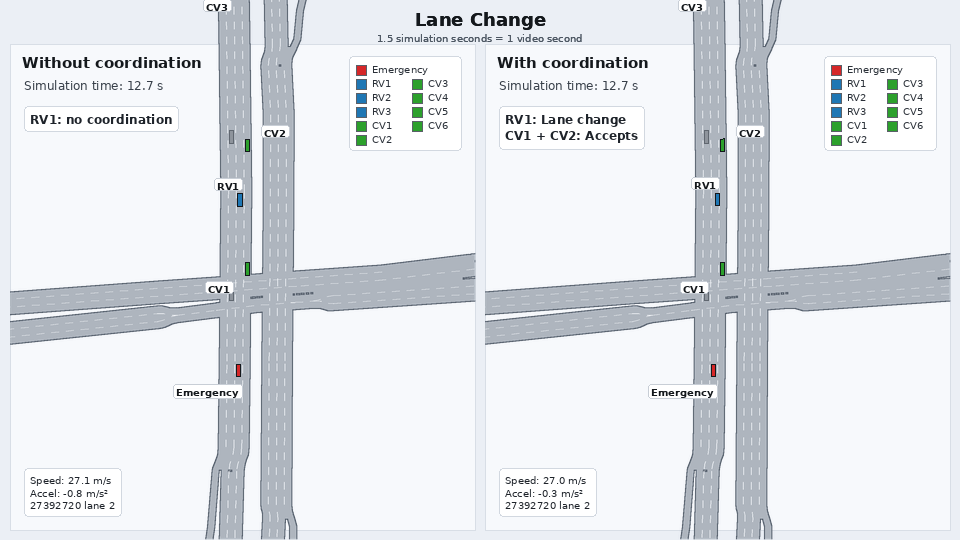
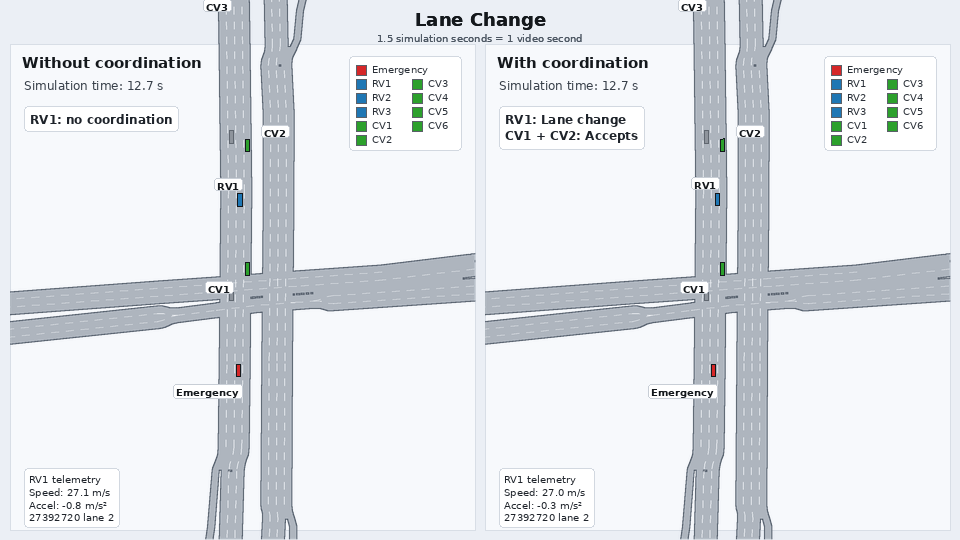
Finalize maneuver comparison animations

Changed region(s): [[0.5, 0.8593, 0.625, 0.9778], [0.0312, 0.8593, 0.125, 0.9778]]

diff --git a/tools/animation/render_comparison.py b/tools/animation/render_comparison.py
@@ -312,13 +312,17 @@ def presentation_merge_states(data: ScenarioData) -> tuple:
     return tuple(states)
 
 
-def presentation_merge_status(data: ScenarioData, variant: str, time_s: float) -> str:
-    # Maneuvers overlap. Follow the earliest unfinished RV, briefly acknowledge
-    # its real completion, then show the next RV's current (not reset) state.
+def presentation_merge_focus(data: ScenarioData, time_s: float) -> tuple:
+    """Share the validated maneuver focus between statuses and telemetry."""
     states = presentation_merge_states(data)
-    label, request, established = next(
+    return next(
         (state for state in states if state[2] is None
          or time_s < state[2] + MERGE_COMPLETION_NOTICE_S - 1e-9), states[-1])
+
+
+def presentation_merge_status(data: ScenarioData, variant: str, time_s: float) -> str:
+    # Follow the earliest unfinished RV, including its completion notice.
+    label, request, established = presentation_merge_focus(data, time_s)
     # Share comparison focus; never imply that the baseline has completed.
     if variant == "baseline":
         return f"{label}: no coordination"
@@ -730,8 +734,20 @@ def draw_panel(
         background=(255, 255, 255),
     )
 
-    metric_lines = metric_panel_lines(data.scenario, variant, primary_sample, primary_series, time_s)
-    draw_text_box(draw, (left + 14, bottom - 62), metric_lines, fonts["small"])
+    telemetry_label = roles[primary_id][0]
+    telemetry_sample, telemetry_series = primary_sample, primary_series
+    if view == "presentation-road-detail" and data.scenario == "merging":
+        telemetry_label = presentation_merge_focus(data, time_s)[0]
+        telemetry_id = next(vid for vid, (label, _) in roles.items()
+                            if label == telemetry_label)
+        telemetry_series = data.fcd[variant][telemetry_id]
+        telemetry_sample = telemetry_series.at(time_s)
+    metric_lines = metric_panel_lines(data.scenario, variant, telemetry_sample, telemetry_series, time_s)
+    if view == "presentation-road-detail":
+        metric_lines.insert(0, f"{telemetry_label} telemetry")
+    draw_text_box(draw, (left + 14, bottom - 62), metric_lines, fonts["small"],
+                  padding=(4 if data.scenario == "merging" else 5)
+                  if view == "presentation-road-detail" else 6)
 
     legend_x = right - 126
     legend_y = bottom - 170 if lower_heading else top + 12
